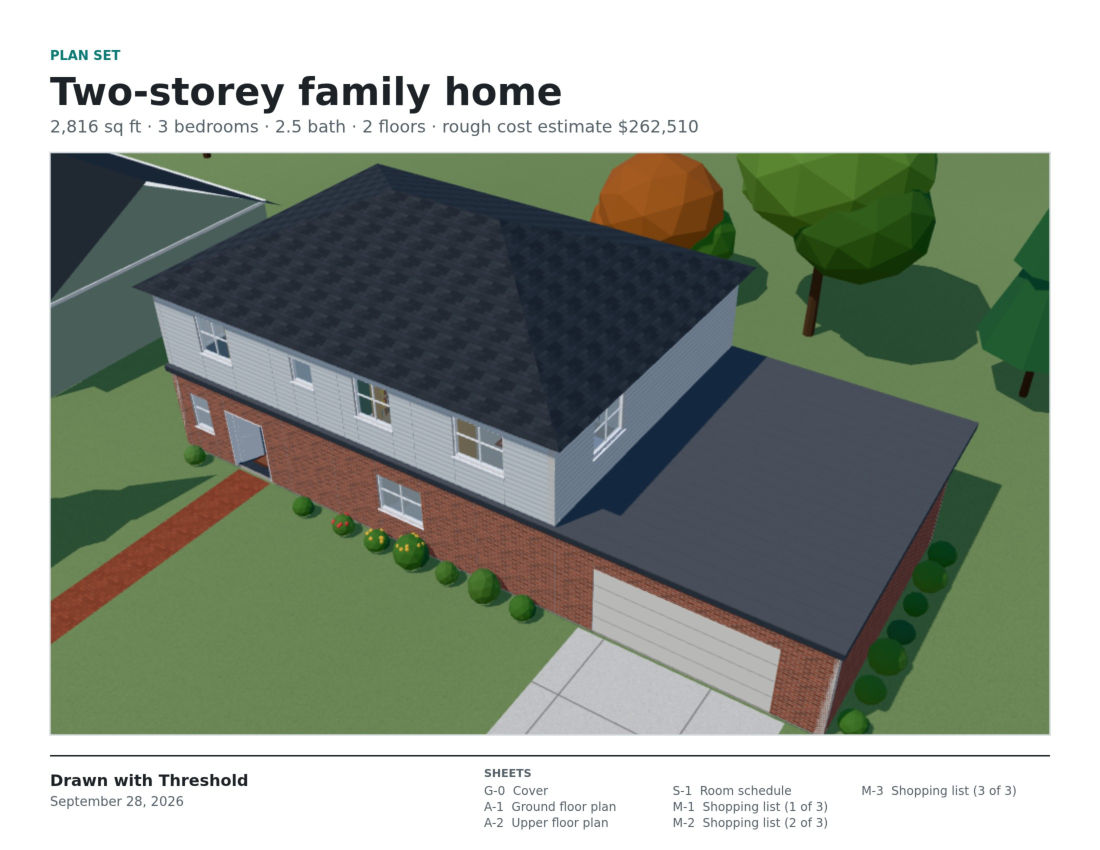
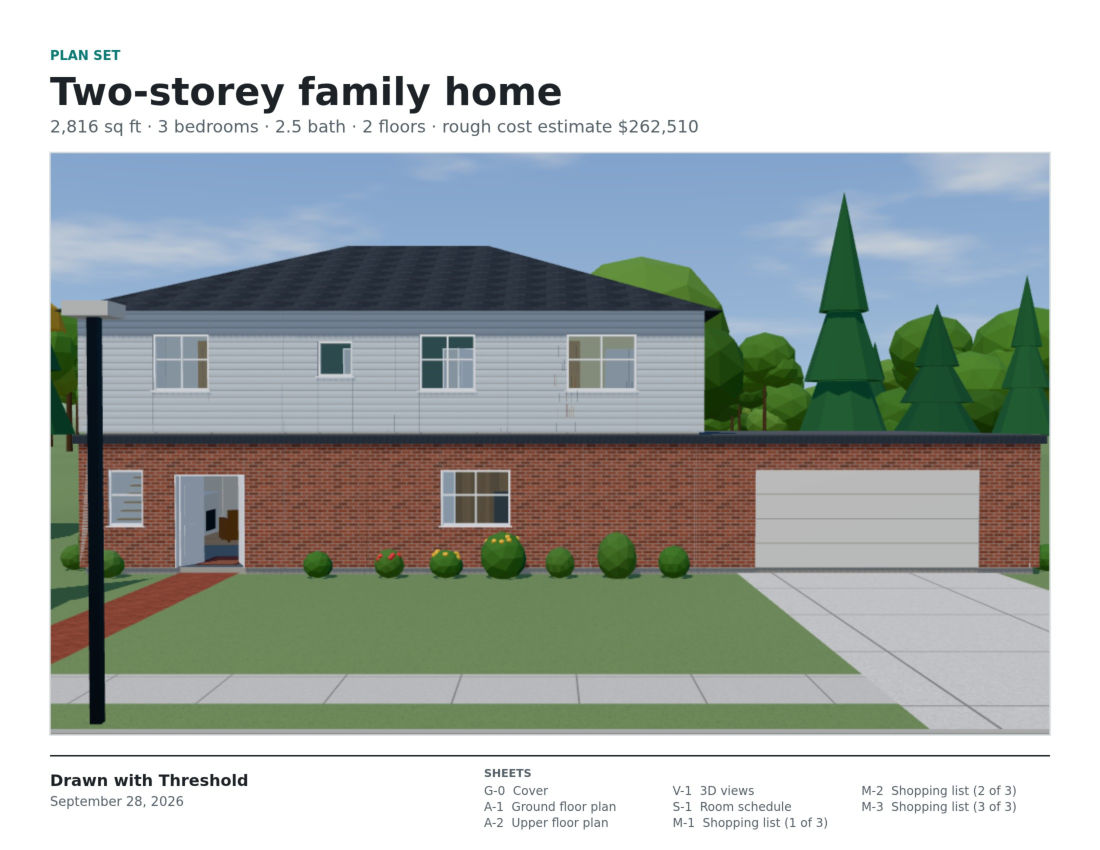
Plan set: 3D views sheet and a street-view cover
- When 3D is open, making the plan set takes four pictures of the whole
  house (street, front corner, garden side, from above), then puts the
  person's 3D settings back
- The cover uses the street view; a new 'V-1 3D views' sheet shows all
  four
- Marketing page sample now shows the 3D views page

Claude-Session: https://claude.ai/code/session_01VT6PQqrJs6sq5nCAd8Zh6h

diff --git a/src/plan/planSet.ts b/src/plan/planSet.ts
@@ -26,6 +26,8 @@ export interface PlanSetOptions {
   brand?: Brand | null
   /** Include the shopping list pages. */
   shopping?: boolean
+  /** Pictures from set 3D viewpoints: the first goes on the cover, all on a "3D views" sheet. */
+  views?: Array<{ name: string; canvas: HTMLCanvasElement }> | null
 }
 
 interface Sheet {
@@ -146,6 +148,43 @@ export async function planSetPdf(project: Project, opts: PlanSetOptions = {}): P
     })
   })
 
+  const views = (opts.views ?? []).slice(0, 4)
+  if (views.length > 1) {
+    sheets.push({
+      id: 'V-1',
+      title: '3D views',
+      photo: true,
+      draw: (ctx, w, h) => {
+        const m = 0.5 * DPI
+        const top = 0.95 * DPI
+        const gap = 0.2 * DPI
+        const label = 0.28 * DPI
+        ctx.fillStyle = INK
+        ctx.font = font(700, 48)
+        ctx.fillText('3D views', m, 0.62 * DPI)
+        const cols = 2
+        const rows = Math.ceil(views.length / cols)
+        const cw = (w - 2 * m - gap * (cols - 1)) / cols
+        const ch = (h - top - 0.55 * DPI - gap * (rows - 1)) / rows - label
+        views.forEach((v, i) => {
+          const x = m + (i % cols) * (cw + gap)
+          const y = top + Math.floor(i / cols) * (ch + label + gap)
+          // Fill the cell with the middle of the picture.
+          const k = Math.max(cw / v.canvas.width, ch / v.canvas.height)
+          const sw = cw / k
+          const sh = ch / k
+          ctx.drawImage(v.canvas, (v.canvas.width - sw) / 2, (v.canvas.height - sh) / 2, sw, sh, x, y, cw, ch)
+          ctx.strokeStyle = RULE
+          ctx.lineWidth = 3
+          ctx.strokeRect(x, y, cw, ch)
+          ctx.fillStyle = INK_2
+          ctx.font = font(600, 28)
+          ctx.fillText(v.name, x, y + ch + label - 14)
+        })
+      },
+    })
+  }
+
   const schedule = roomSchedule(project)
   sheets.push(
     ...tablePages(
@@ -210,9 +249,10 @@ export async function planSetPdf(project: Project, opts: PlanSetOptions = {}): P
       const boxY = m + 205
       const boxH = h - boxY - 1.15 * DPI
       const boxW = w - 2 * m
-      if (opts.cover3d && opts.cover3d.width > 0) {
+      const coverPic = views[0]?.canvas ?? opts.cover3d
+      if (coverPic && coverPic.width > 0) {
         // Fill the box with the middle of the 3D view.
-        const src = opts.cover3d
+        const src = coverPic
         const k = Math.max(boxW / src.width, boxH / src.height)
         const sw = boxW / k
         const sh = boxH / k

diff --git a/src/ui/Panels.tsx b/src/ui/Panels.tsx
@@ -32,6 +32,7 @@ import { canShareLinks, shareLink } from '../store/share'
 import { cloudDelete, cloudList, cloudLoad } from '../store/cloud'
 import { planPng } from '../plan/exportPlan'
 import { planSetPdf } from '../plan/planSet'
+import { capture3dViews } from '../three/captureViews'
 import { exportGlb } from '../three/exportModel'
 import { readImage, useUnderlay } from '../store/underlay'
 import { levelBounds } from '../model/ops'
@@ -744,7 +745,13 @@ export function ProjectPanel() {
     s.notify('Drawing the plan set…')
     try {
       const canvas = document.querySelector('.view-3d canvas') as HTMLCanvasElement | null
-      const blob = await planSetPdf(useStore.getState().project, { cover3d: canvas, brand: can('branding') ? useBrand.getState() : null, shopping: can('shopping-export') })
+      const views = await capture3dViews([
+        { dir: 'street', name: 'From the street' },
+        { dir: 'corner', name: 'Front corner' },
+        { dir: 'N', name: 'Garden side' },
+        { dir: 'top', name: 'From above' },
+      ])
+      const blob = await planSetPdf(useStore.getState().project, { cover3d: canvas, views, brand: can('branding') ? useBrand.getState() : null, shopping: can('shopping-export') })
       track('export', { kind: 'plan-set' })
       const r = await saveFile(`${slug(project.name)}-plan-set.pdf`, blob, 'application/pdf')
       s.notify(r === 'saved' ? 'Plan set saved' : r === 'declined' ? 'Save cancelled' : 'Could not save the file')
@@ -969,7 +976,7 @@ export function ProjectPanel() {
           <button type="button" className="btn" onClick={() => fileRef.current?.click()}>
             <Icon name="upload" size={16} /> Open design file
           </button>
-          <button type="button" className="btn" onClick={exportPlanSet} disabled={making} title="Cover (uses the 3D view on screen), every floor plan, room schedule and shopping list">
+          <button type="button" className="btn" onClick={exportPlanSet} disabled={making} title="Cover, 3D views (open 3D or Split first), every floor plan, room schedule and shopping list">
             <Icon name="sheets" size={16} /> {making ? 'Making plan set…' : 'Save plan set (PDF)'} <PlanTag plan="pro" />
           </button>
           <button type="button" className="btn" onClick={exportPlan}>

diff --git a/src/three/captureViews.ts b/src/three/captureViews.ts
@@ -1,0 +1,39 @@
+/**
+ * Pictures of the house from set viewpoints, taken from the 3D view on
+ * screen: whole house with its roof, no cutaway or exploded parts. The
+ * person's own 3D settings are put back afterwards.
+ */
+import { useStore } from '../store/store'
+
+type Dir = 'corner' | 'top' | 'N' | 'E' | 'S' | 'W' | 'street'
+
+const nextFrame = () => new Promise<void>((r) => requestAnimationFrame(() => r()))
+async function settle() {
+  for (let i = 0; i < 4; i++) await nextFrame()
+  await new Promise((r) => setTimeout(r, 200))
+  await nextFrame()
+  await nextFrame()
+}
+
+export async function capture3dViews(views: Array<{ dir: Dir; name: string }>): Promise<Array<{ name: string; canvas: HTMLCanvasElement }> | null> {
+  const s = useStore.getState()
+  const src = document.querySelector<HTMLCanvasElement>('.view-3d canvas')
+  if (!src || s.view === 'walk' || s.view === 'plan') return null
+  const saved = { cutaway: s.cutaway, showRoof: s.showRoof, explode: s.explode, wallCut: s.wallCut, section: s.section, dir: s.viewFrom.dir }
+  useStore.setState({ cutaway: false, showRoof: true, explode: 0, wallCut: false, selection: null, section: { ...s.section, on: false } })
+  const out: Array<{ name: string; canvas: HTMLCanvasElement }> = []
+  try {
+    for (const v of views) {
+      useStore.setState({ viewFrom: { dir: v.dir, seq: useStore.getState().viewFrom.seq + 1 } })
+      await settle()
+      const c = document.createElement('canvas')
+      c.width = src.width
+      c.height = src.height
+      c.getContext('2d')!.drawImage(src, 0, 0)
+      out.push({ name: v.name, canvas: c })
+    }
+  } finally {
+    useStore.setState({ cutaway: saved.cutaway, showRoof: saved.showRoof, explode: saved.explode, wallCut: saved.wallCut, section: saved.section, viewFrom: { dir: saved.dir, seq: useStore.getState().viewFrom.seq + 1 } })
+  }
+  return out
+}

diff --git a/src/landing/main.tsx b/src/landing/main.tsx
@@ -246,13 +246,13 @@ function Landing() {
             <div className="story-text">
               <Dim label="Letter or A4 · Pro" />
               <h2>Hand your builder a plan set</h2>
-              <p>One PDF with a cover, a dimensioned sheet for every floor, a room schedule with finishes and ceiling heights, and the shopping list. Print it, or send it to your builder, designer or family.</p>
+              <p>One PDF with a cover, 3D views from the street, the corner, the garden and above, a dimensioned sheet for every floor, a room schedule with finishes and ceiling heights, and the shopping list. Print it, or send it to your builder, designer or family.</p>
               <a className="btn btn-primary handoff-cta" href="#pricing">
                 See Pro and the Build Pass
               </a>
             </div>
-            <div className="sheets" role="img" aria-label="Three pages from a sample plan set: the cover, the ground floor plan and the shopping list">
-              <img src="shots/set-list.jpg" alt="" loading="lazy" width={1100} height={850} />
+            <div className="sheets" role="img" aria-label="Three pages from a sample plan set: the cover, the ground floor plan and the 3D views">
+              <img src="shots/set-views.jpg" alt="" loading="lazy" width={1100} height={850} />
               <img src="shots/set-plan.jpg" alt="" loading="lazy" width={1100} height={850} />
               <img src="shots/set-cover.jpg" alt="" loading="lazy" width={1100} height={850} />
             </div>

diff --git a/src/product/plans.ts b/src/product/plans.ts
@@ -35,7 +35,7 @@ export const FEATURES: Record<Feature, { name: string; blurb: string; plan: Plan
   surroundings: { name: 'Garden and countryside settings', blurb: 'See the home in a private garden or in the countryside, not only on a street.', plan: 'pro' },
   'all-styles': { name: 'All whole-home styles', blurb: 'Every designer style for walls, floors, roof, cabinets and furniture in one click.', plan: 'pro' },
   'plan-library': { name: 'Full plan library', blurb: 'Every ready-made home in the library, furnished and styled, to start from and change as you like.', plan: 'pro' },
-  'plan-set': { name: 'PDF plan set', blurb: 'One PDF with a cover, every floor plan, the room schedule and the shopping list, ready to print or send to a builder.', plan: 'pro' },
+  'plan-set': { name: 'PDF plan set', blurb: 'One PDF with a cover, 3D views, every floor plan, the room schedule and the shopping list, ready to print or send to a builder.', plan: 'pro' },
   sync: { name: 'Designs on all your devices', blurb: 'Your designs follow your license to every browser you use, and survive cleared browser data.', plan: 'pro' },
   branding: { name: 'Your brand on plan sheets', blurb: 'Your company name, contact and logo in the title block of every floor plan.', plan: 'studio' },
   presentation: { name: 'Client presentations', blurb: 'A full-screen, guided 3D tour of the home with your branding, and client links that open straight into it. Clients need no account.', plan: 'studio' },
